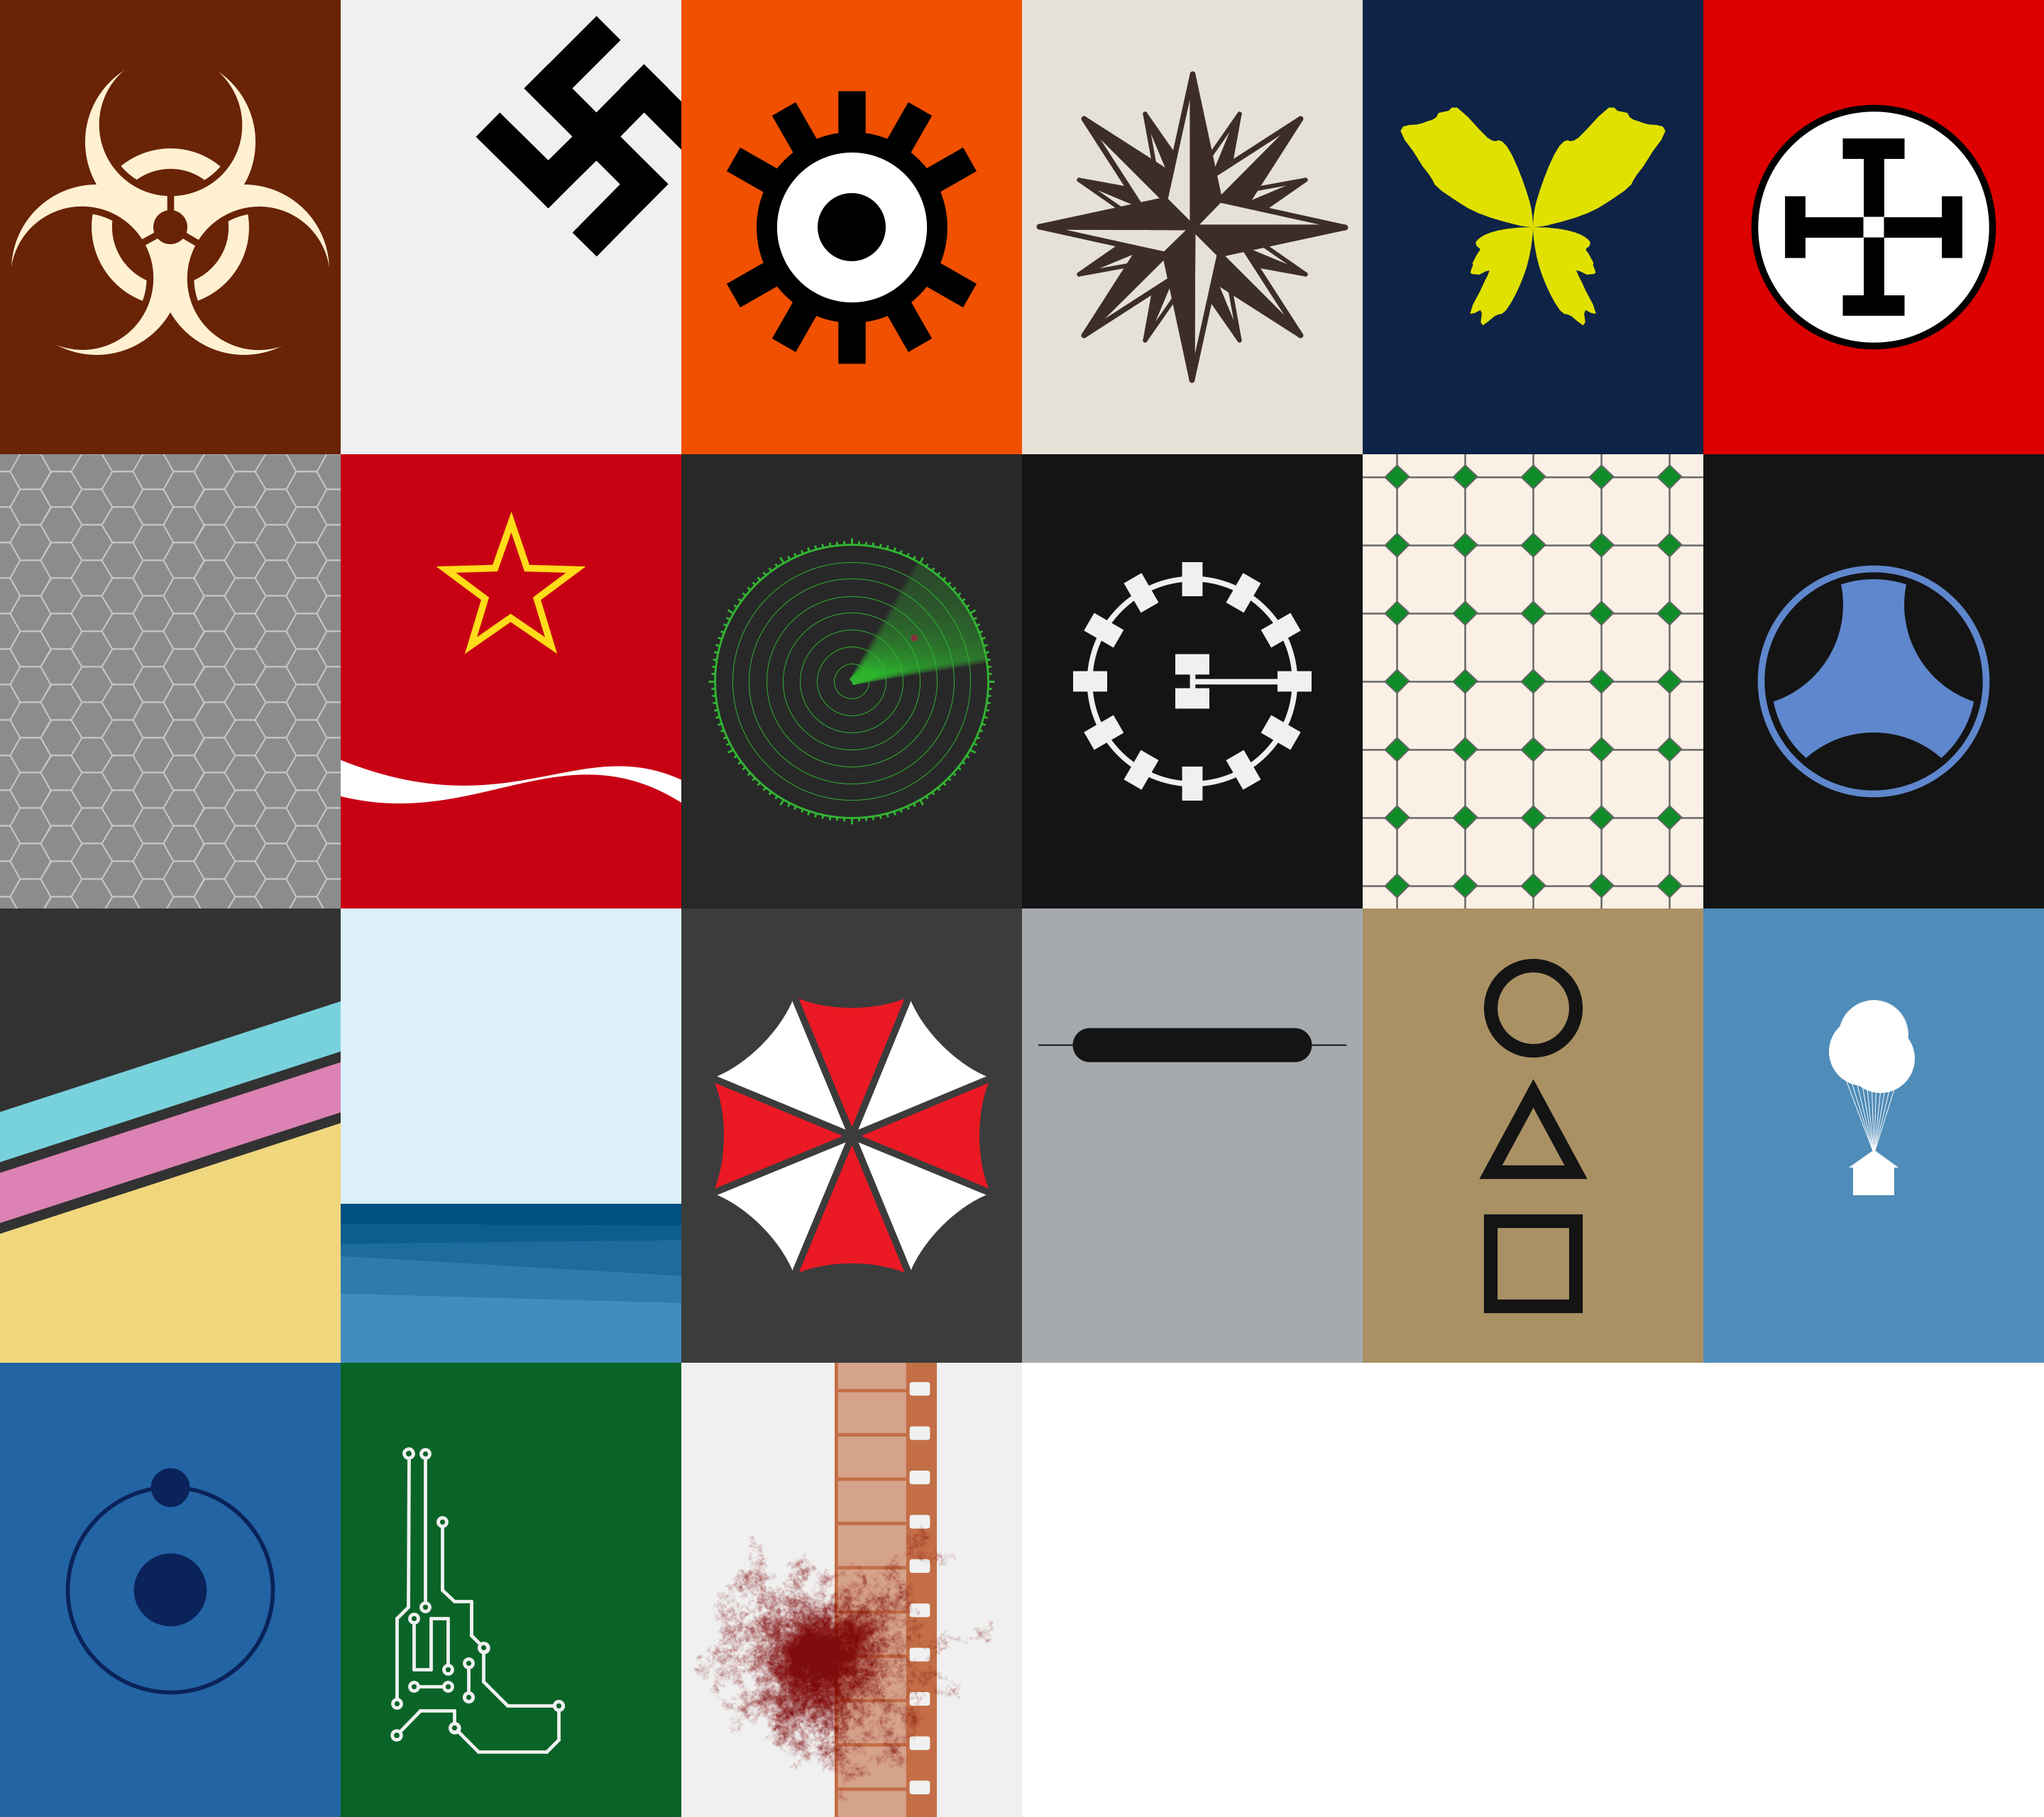
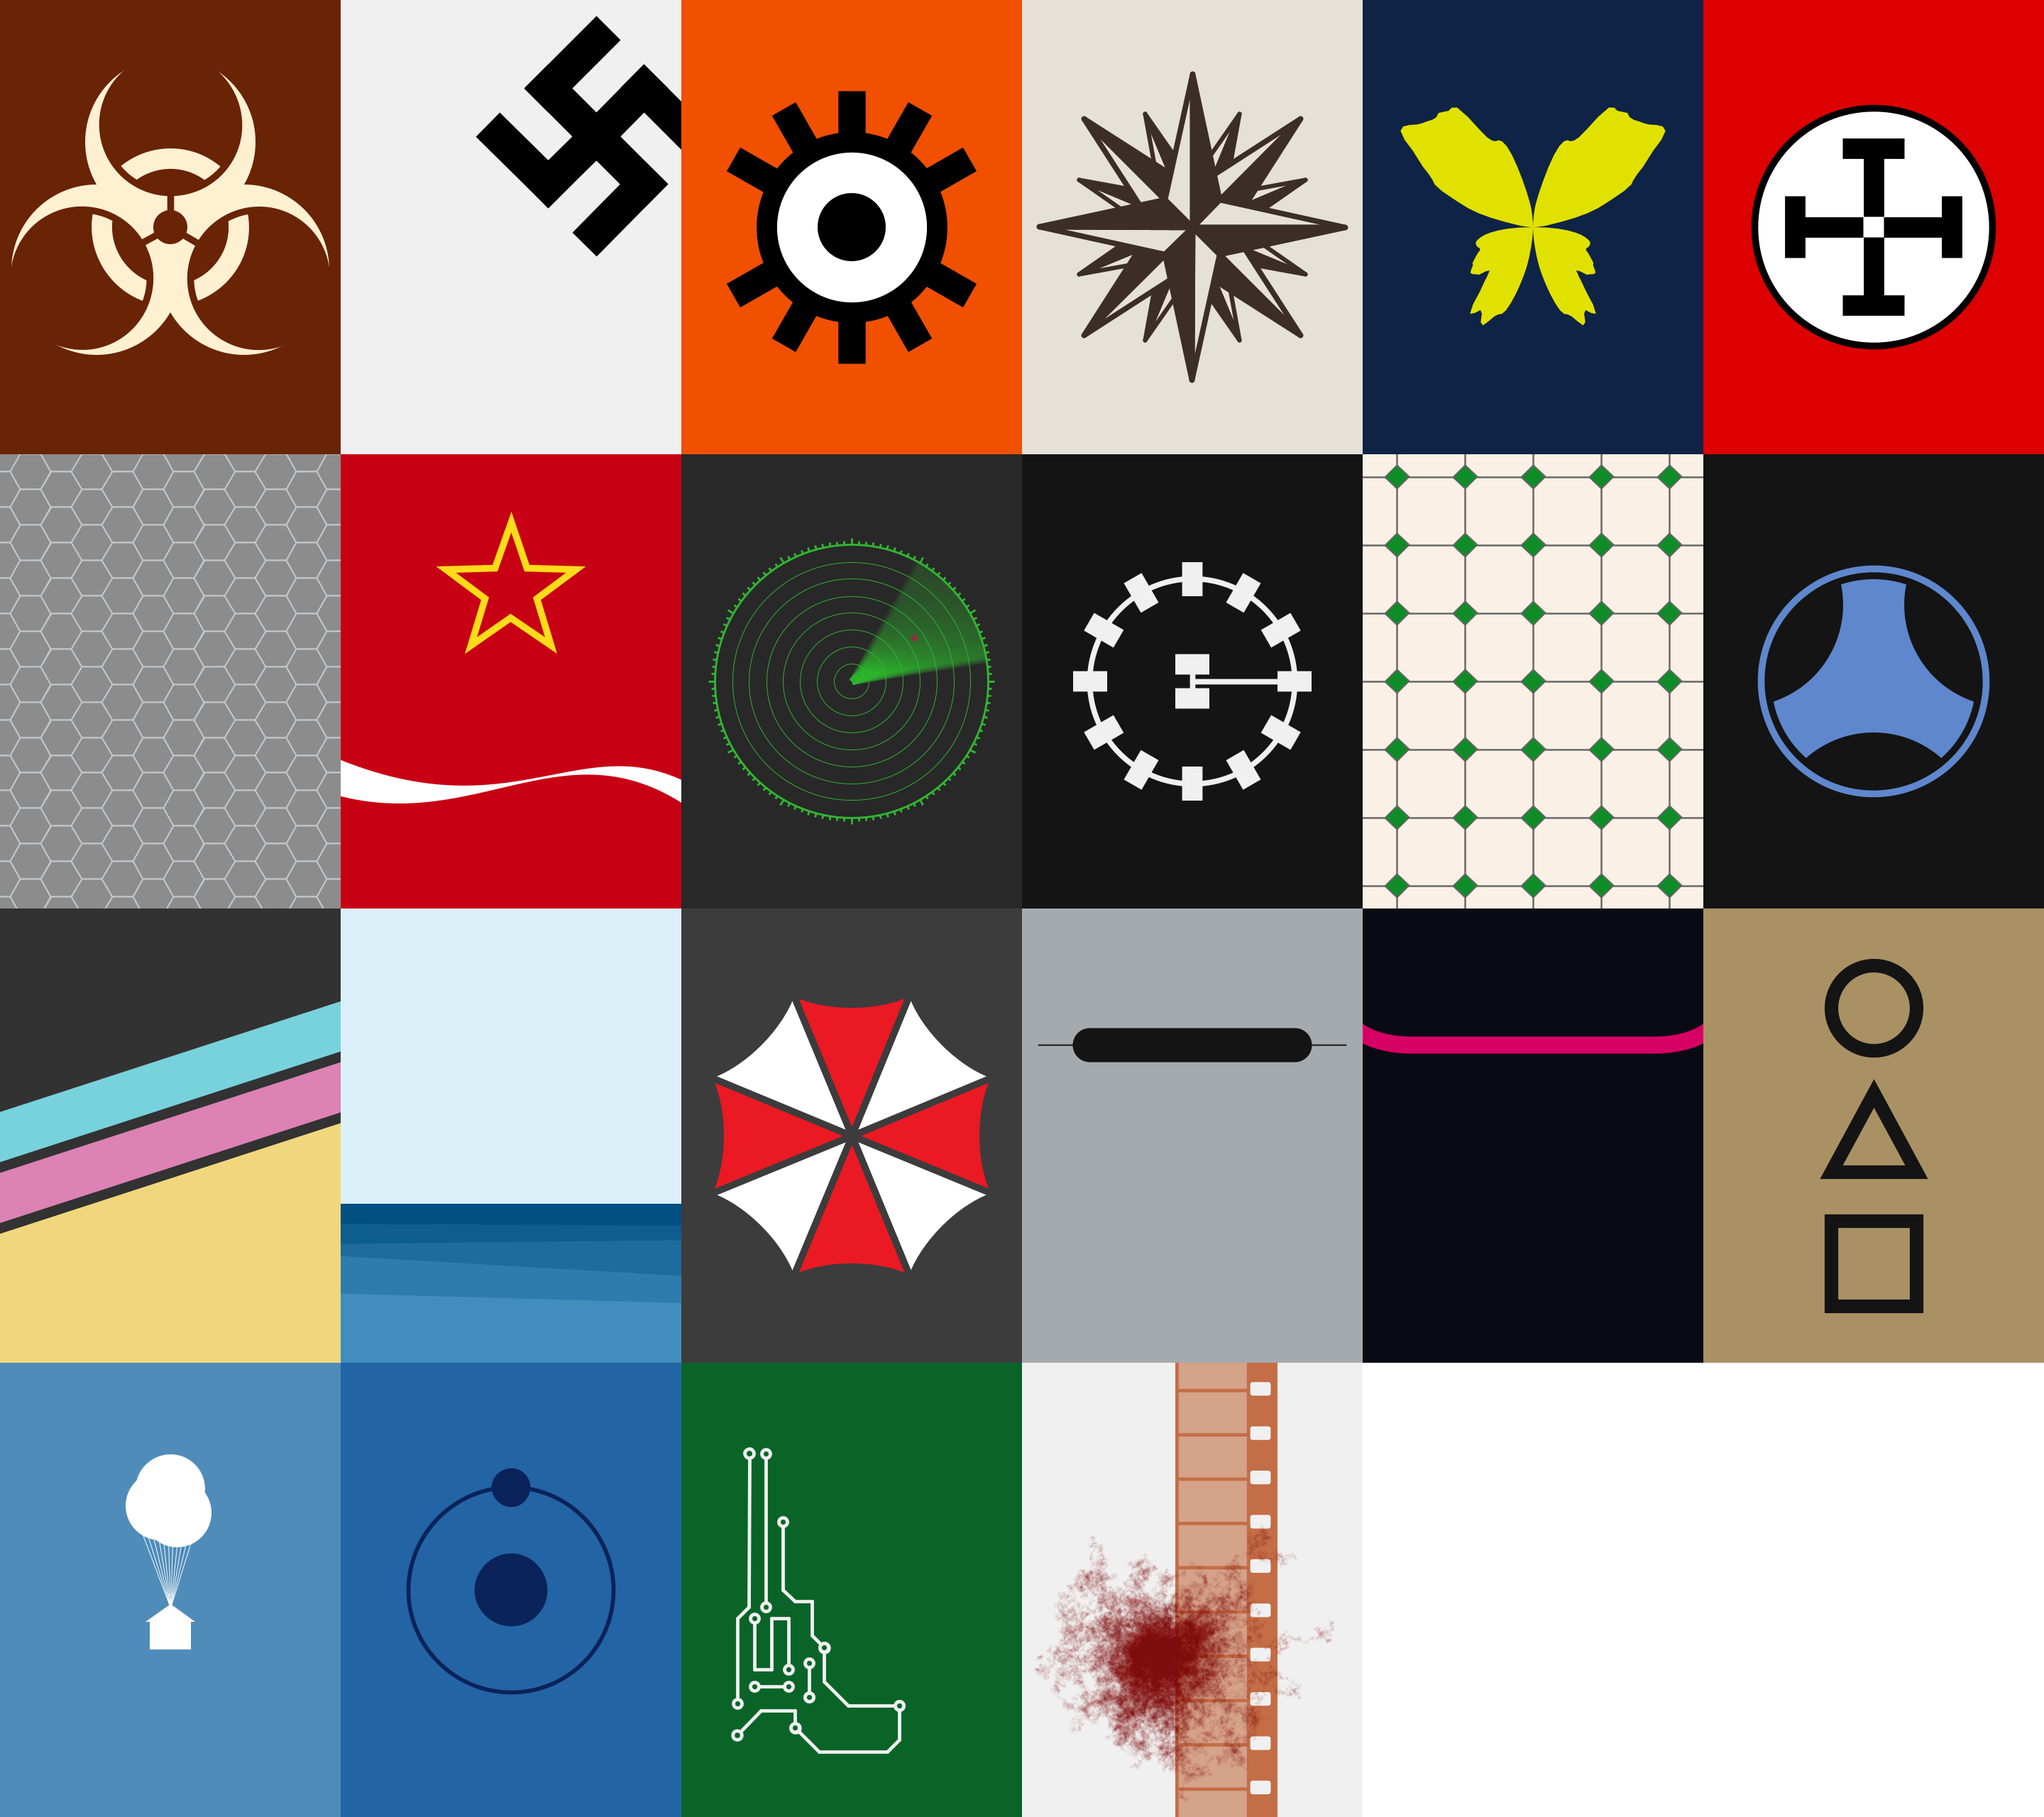
pages updated

Changed region(s): [[0.0, 0.75, 0.6562, 1.0], [0.6562, 0.5, 1.0, 0.75]]

diff --git a/examples/volume6/robocop_2014/README.md b/examples/volume6/robocop_2014/README.md
@@ -1,34 +1,34 @@
 ---
-permalink: /examples/volume6/robocop/
-title: RoboCop (1987) | Minimalist Movie Poster
+permalink: /examples/volume6/robocop_2014/
+title:  () | Minimalist Movie Poster
 description: Minimalist Movie Poster generated using Java and Processing.
 ---
 
-# RoboCop (1987)
+#  ()
 
-Action, Crime, Sci-Fi, Thriller
+
 
 ## Plot
-In a dystopic and crime-ridden Detroit, a terminally wounded cop returns to the force as a powerful cyborg haunted by submerged memories.
 
-[details](https://www.imdb.com/title/tt0093870/)
+
+[details](https://www.imdb.com/title//)
 
 ## Movie Poster
-<img src="robocop.png"  width="360px" title="RoboCop">
+<img src="robocop-2014.png"  width="360px" title="">
 
 
 ## The code
 ```java
 // Manuale di Programmazione Cinematografica
-// Daniele Olmisani, 2021
+// Daniele Olmisani, 2023
 
-// Robocop (1987)
+// RoboCop (2014)
 
 
-final color PAPER = color(165, 170, 175);
-final color INK = color(20);
+final color PAPER = color(10, 10, 20);
+final color INK = color(215, 0, 100);
 
-final float RADIUS = 0.3;
+final float RADIUS = 0.6;
 
 void setup() {
   size(480, 640);
@@ -45,16 +45,15 @@ void draw() {
   
   background(PAPER);
   
+  noFill();
+  
   stroke(INK);
+  strokeWeight(25*U);
   
-  strokeWeight(50*U);
-  line(-RADIUS, 0.0, RADIUS, 0.0);
+  rectMode(CORNERS);
+  rect(-RADIUS, 0.0,  RADIUS, -1.0, 0.25);
   
-  strokeWeight(2*U);
-  line(-1.5*RADIUS, 0.0, 1.5*RADIUS, 0.0);
-  
-  save("robocop.png");
- 
+  save("robocop-2014.png");
 }
 
 ```

diff --git a/README.md b/README.md
@@ -490,13 +490,16 @@ Use PDE `File -> Examples... -> Add examples` or follow these links to manually 
 <a href="examples/volume6/robocop/">
     <img src="examples/volume6/robocop/robocop.png" width="120px" title="RoboCop"/>
 </a>
+<a href="examples/volume6/robocop_2014/">
+    <img src="examples/volume6/robocop_2014/robocop-2014.png" width="120px" title=""/>
+</a>
 <a href="examples/volume6/squid_game/">
     <img src="examples/volume6/squid_game/squid-game.png" width="120px" title="Squid Game"/>
 </a>
+<br class="index-separator"/>
 <a href="examples/volume6/up/">
     <img src="examples/volume6/up/up.png" width="120px" title="Up"/>
 </a>
-<br class="index-separator"/>
 <a href="examples/volume6/watchmen/">
     <img src="examples/volume6/watchmen/watchmen.png" width="120px" title="Watchmen"/>
 </a>

diff --git a/examples/volume6/robocop/README.md b/examples/volume6/robocop/README.md
@@ -22,7 +22,7 @@ In a dystopic and crime-ridden Detroit, a terminally wounded cop returns to the 
 // Manuale di Programmazione Cinematografica
 // Daniele Olmisani, 2021
 
-// Robocop (1987)
+// RoboCop (1987)
 
 
 final color PAPER = color(165, 170, 175);
@@ -54,7 +54,6 @@ void draw() {
   line(-1.5*RADIUS, 0.0, 1.5*RADIUS, 0.0);
   
   save("robocop.png");
- 
 }
 
 ```

diff --git a/examples/volume6/eastern_promises/README.md b/examples/volume6/eastern_promises/README.md
@@ -65,7 +65,6 @@ void draw() {
   drawStar();
   
   save("eastern-promises.png");
-
 }
 
 void drawStar() {
